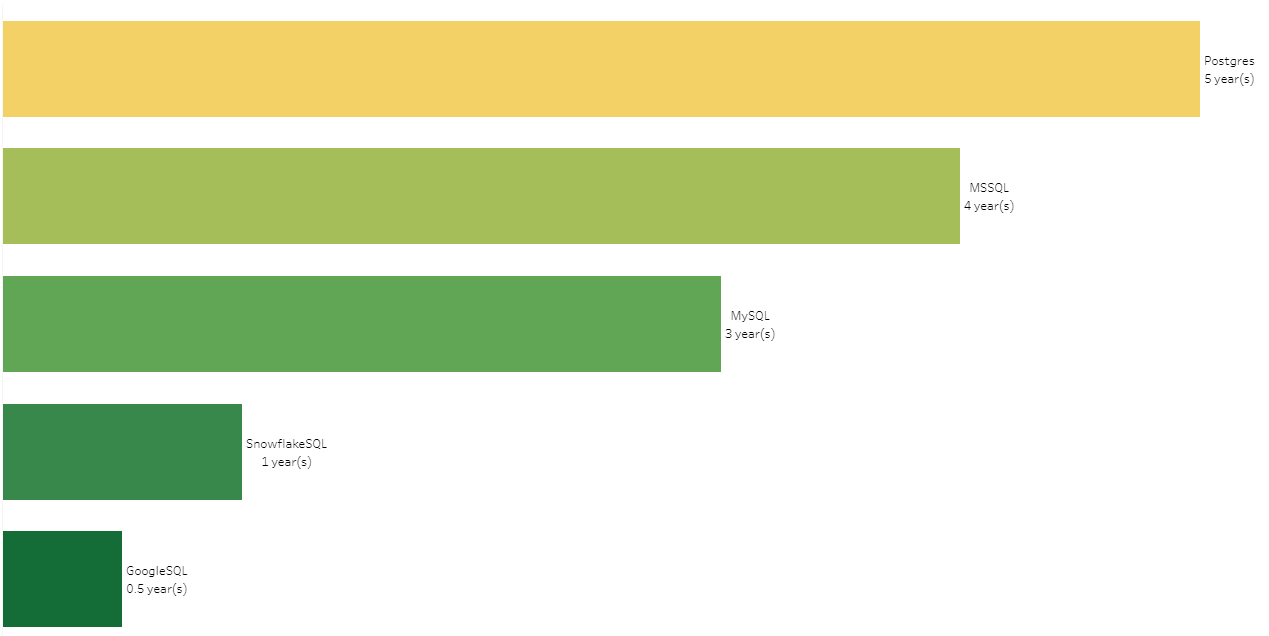
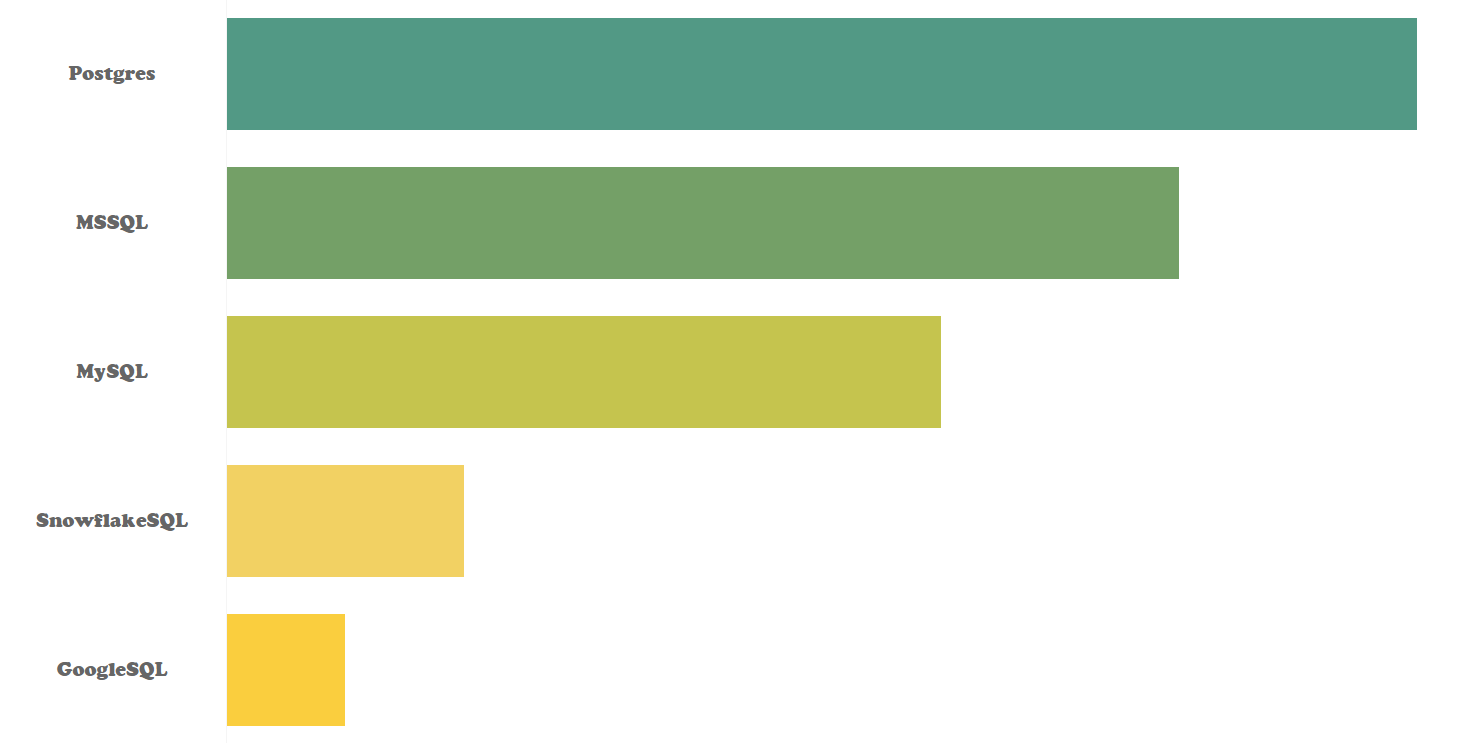
adding new skills dash

diff --git a/README.md b/README.md
@@ -68,7 +68,7 @@ I have had a major part in overhauling reporting infrastructure for 2 companies:
    
 ## **Skills**
 *This bubble graph outlines my key skills with languages, softwares, and common platforms.*
-![Skills](/assets/skills.png)   
+![Skills](/assets/skills_dash.png)   
    
 *In the 5 years of using SQL, I've worked with a variety of flavors across multiple databases.*
 ![SQL](/assets/sql.png)
